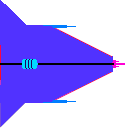
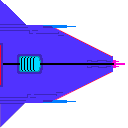
Updated textures, added new laser and ship textures

diff --git a/core/src/com/game/vssg/VSSG.java b/core/src/com/game/vssg/VSSG.java
@@ -101,7 +101,7 @@ public class VSSG implements ApplicationListener {
 		Vector2 vector2 = new Vector2((float) Gdx.graphics.getWidth() /2, (float) Gdx.graphics.getHeight() /2);
 		Rectangle hitBox = new Rectangle();
 		int cpuActionCounter = 0;
-		PlayerShip playerShip = new PlayerShip(otherShipTexture, vector2, speed, null, hitBox, cpuActionCounter);
+		PlayerShip playerShip = new PlayerShip(purpleShipTexture, vector2, speed, null, hitBox, cpuActionCounter);
 		playerShip.setScale(purpleShipScale);
 		playerShip.setRotation(0);
 
